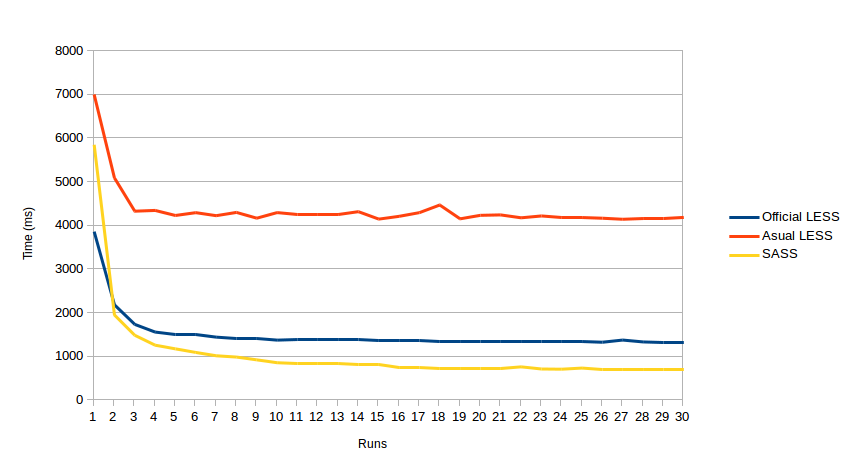
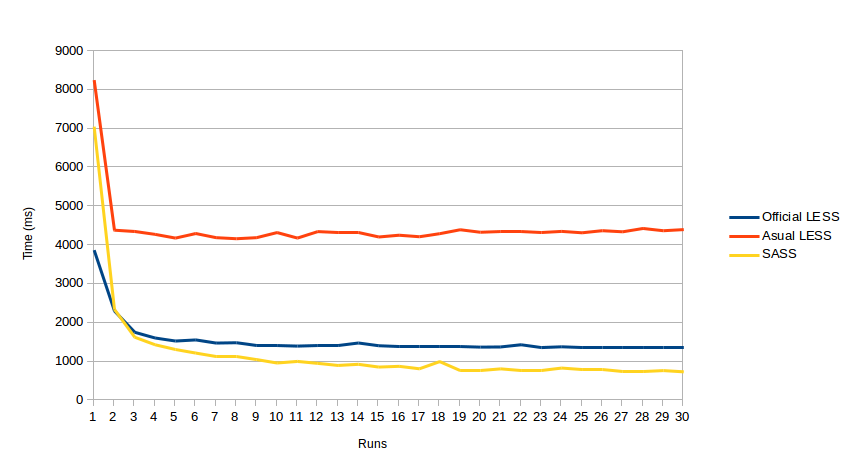
Upgrade SASS to 3.3.6

diff --git a/src/test/resources/bootstrap.sass.css b/src/test/resources/bootstrap.sass.css
@@ -1,4 +1,4 @@
-/* normalize.css v3.0.0 | MIT License | git.io/normalize */
+/*! normalize.css v3.0.0 | MIT License | git.io/normalize */
 html {
   font-family: sans-serif;
   -ms-text-size-adjust: 100%;
@@ -260,7 +260,7 @@ th {
 
 html {
   font-size: 62.5%;
-  -webkit-tap-highlight-color: rgba(0, 0, 0, 0); }
+  -webkit-tap-highlight-color: transparent; }
 
 body {
   font-family: "Helvetica Neue", Helvetica, Arial, sans-serif;
@@ -2131,7 +2131,6 @@ input[type="button"].btn-block {
   font-family: 'Glyphicons Halflings';
   src: url("bootstrap/glyphicons-halflings-regular.eot");
   src: url("bootstrap/glyphicons-halflings-regular.eot?#iefix") format("embedded-opentype"), url("bootstrap/glyphicons-halflings-regular.woff") format("woff"), url("bootstrap/glyphicons-halflings-regular.ttf") format("truetype"), url("bootstrap/glyphicons-halflings-regular.svg#glyphicons_halflingsregular") format("svg"); }
-
 .glyphicon {
   position: relative;
   top: 1px;
@@ -3912,14 +3911,12 @@ a.thumbnail.active {
 
   to {
     background-position: 0 0; } }
-
 @keyframes progress-bar-stripes {
   from {
     background-position: 40px 0; }
 
   to {
     background-position: 0 0; } }
-
 .progress {
   overflow: hidden;
   height: 20px;
@@ -4819,7 +4816,7 @@ button.close {
     border-radius: 10px;
     cursor: pointer;
     background-color: #000 \9;
-    background-color: rgba(0, 0, 0, 0); }
+    background-color: transparent; }
   .carousel-indicators .active {
     margin: 0;
     width: 12px;
@@ -4900,7 +4897,6 @@ button.close {
 
 @-ms-viewport {
   width: device-width; }
-
 .visible-xs, .visible-sm, .visible-md, .visible-lg {
   display: none !important; }
 

diff --git a/src/main/java/org/xwiki/contrib/lesssassbenchmark/Benchmark.java b/src/main/java/org/xwiki/contrib/lesssassbenchmark/Benchmark.java
@@ -47,9 +47,9 @@ public class Benchmark
 
             // RESULTS
             System.out.println("Results:");
-            System.out.println("LESS: "+ lessTime + "seconds");
-            System.out.println("SASS: "+ sassTime + "seconds");
-            System.out.println("Asual LESS: "+ asualLessTime + "seconds");
+            System.out.println("LESS: "+ lessTime + " seconds");
+            System.out.println("SASS: "+ sassTime + " seconds");
+            System.out.println("Asual LESS: "+ asualLessTime + " seconds");
 
         } catch (Exception e) {
             e.printStackTrace();

diff --git a/README.md b/README.md
@@ -8,7 +8,7 @@ LESS
 I have found 2 versions to be used with java:
 
 * [The official LESS Compiler for Java forked by Sandro Böhme](https://github.com/sandroboehme/lesscss-java). It uses [Rhino](https://developer.mozilla.org/en-US/docs/Mozilla/Projects/Rhino) and [EnvJs](http://www.envjs.com/) to runs the [LESS](http://lesscss.org/) compiler, which is written in Javascript.
-* [LESS for Java, by Asual](http://www.asual.com/lesscss/), based on Rhino too.
+* [LESS for Java, by Asual](http://www.asual.com/lesscss/), based on Rhino only, tu run the LESS compiler.
 
 SASS
 -----
@@ -18,9 +18,9 @@ Protocol
 -----
 I have both the sources of [Bootstrap](http://getbootstrap.com/) 3.1.1 for Less and Sass. I build it 100 times with each preprocessor.
 
-* Official LESS version: 1.7.0 (latest)
-* Asual LESS version: 1.7.0 (latest)
-* SASS version: 3.2.1 wich is the last gems available in maven (last version: 3.3.6).
+* Official LESS version: I manually set the LESS JS file to 1.7.0-rhino (latest)
+* Asual LESS version: I manually set the LESS JS file to 1.7.0-rhino (latest)
+* SASS version: [3.3.6](https://github.com/xwiki-contrib/sass-gems) (latest).
 
 Results
 -----
@@ -28,27 +28,27 @@ Using Java HotSpot(TM) 64-Bit Server VM 1.7 on Ubuntu 13.10, with intel core i7 
 
 **For the whole**:
 
-*   Official LESS: 139 seconds
-*   Asual LESS: 427 seconds
-*   SASS: 77 seconds
+*   Official LESS: 142 seconds
+*   Asual LESS: 433 seconds
+*   SASS: 86 seconds
 
 **Mean**:
 
-*   Official LESS: 1,39101 seconds
-*   Asual LESS: 4,27867 seconds
-*   SASS: 0,77975 seconds
+*   Official LESS: 1,425 seconds
+*   Asual LESS: 4,337 seconds
+*   SASS: 0,860 seconds
 
 **Median**:
 
-*   Official LESS: 1,34 seconds
-*   Asual LESS: 4,236 seconds
-*   SASS: 0,663 seconds
+*   Official LESS: 1,372 seconds
+*   Asual LESS: 4,283 seconds
+*   SASS: 0,732 seconds
 
 **Standard Deviation**:
 
-*   Official LESS: 0,271 seconds
-*   Asual LESS: 0,296 seconds
-*   SASS: 0,548 seconds
+*   Official LESS: 0,272 seconds
+*   Asual LESS: 0,403 seconds
+*   SASS: 0,667 seconds
 
 ![Diagram](https://raw.githubusercontent.com/xwiki-contrib/less-vs-sass-benchmark/master/benchmark.png "Diagram")
 
